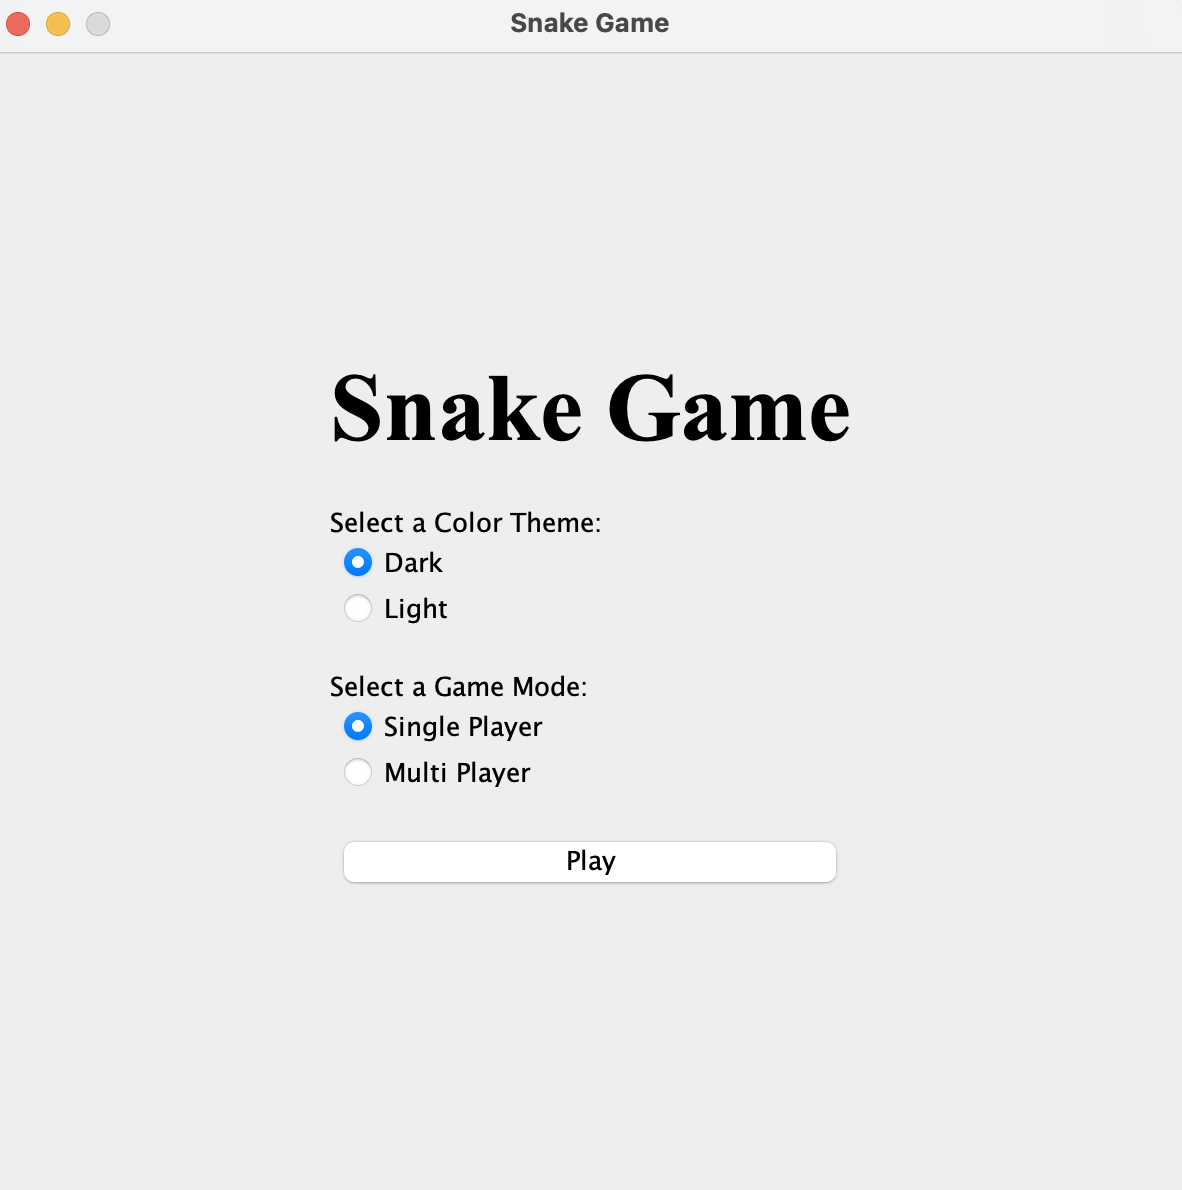
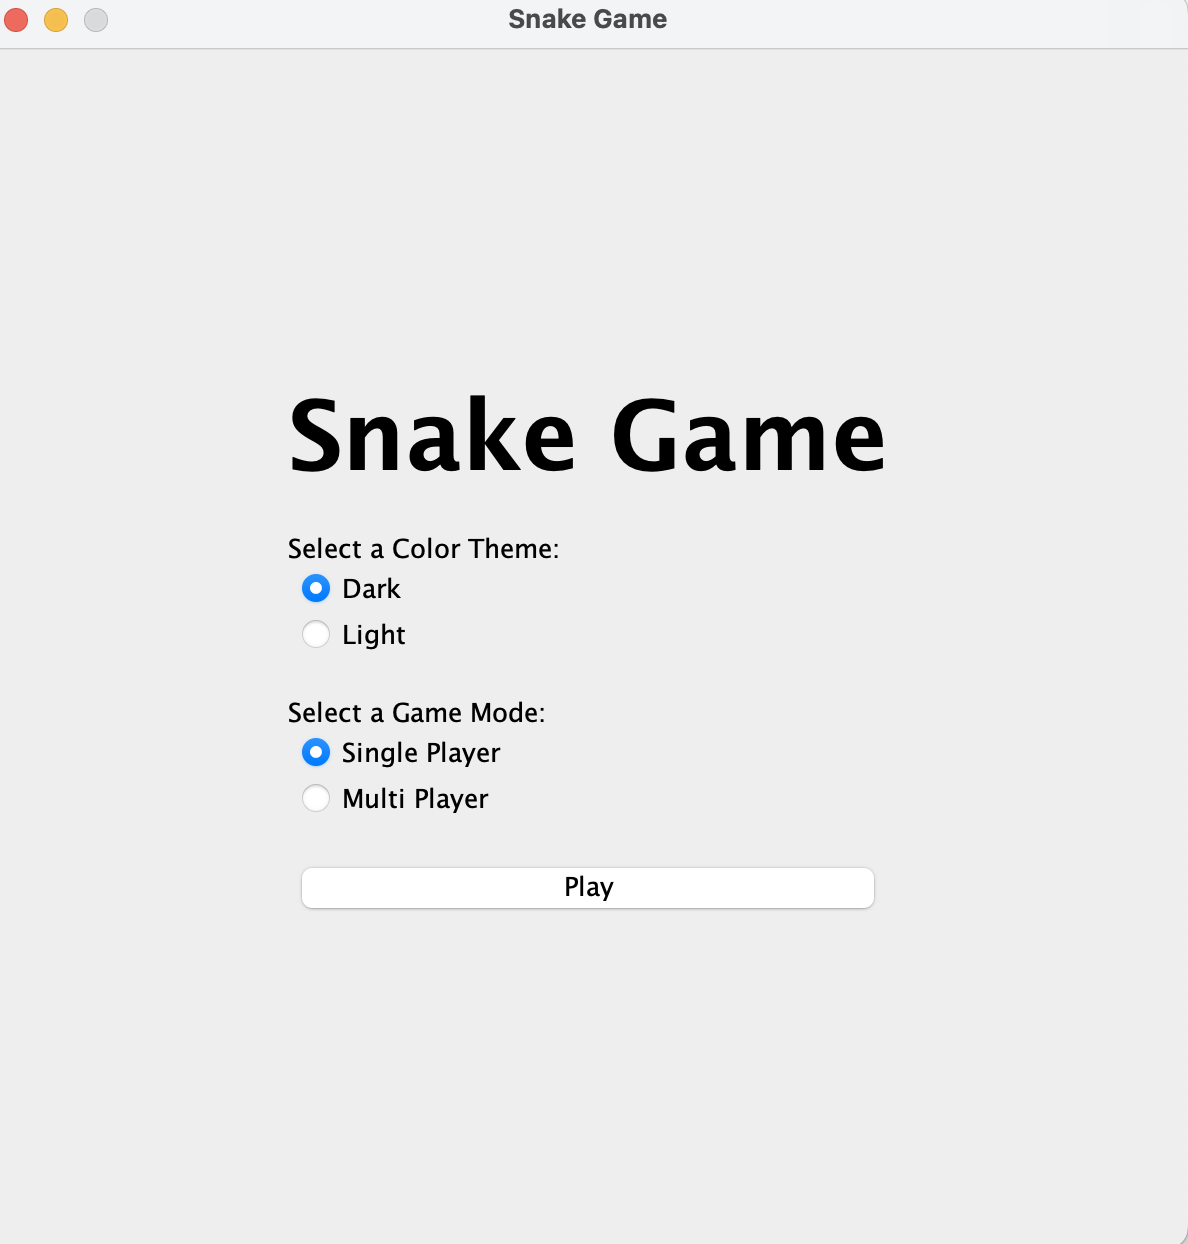
clean up

diff --git a/src/main/java/com/smansu4/panels/GamePanel.java b/src/main/java/com/smansu4/panels/GamePanel.java
@@ -26,6 +26,7 @@ public class GamePanel extends JPanel {
         snakeGame.requestFocus();
 
         snakeGame.addPropertyChangeListener(evt -> {
+            int defaultOldValue = -1;
             if(GameStateAction.GAME_OVER.toString().equals(evt.getPropertyName())){
                 snakeGame.removeAll();
                 snakeGame.setVisible(false);
@@ -33,11 +34,11 @@ public class GamePanel extends JPanel {
                 setVisible(false);
                 firePropertyChange(GameStateAction.GAME_OVER.toString(), false, true);
             } else if ("highScore".equals(evt.getPropertyName())){
-                firePropertyChange("highScore", -1, evt.getNewValue());
+                firePropertyChange("highScore", defaultOldValue, evt.getNewValue());
             } else if ("p1Score".equals(evt.getPropertyName())){
-                firePropertyChange("p1Score", -1, evt.getNewValue());
+                firePropertyChange("p1Score", defaultOldValue, evt.getNewValue());
             } else if ("p2Score".equals(evt.getPropertyName())){
-                firePropertyChange("p2Score", -1, evt.getNewValue());
+                firePropertyChange("p2Score", defaultOldValue, evt.getNewValue());
             }
         });
         snakeGame.startGame();

diff --git a/src/main/java/com/smansu4/snake/SnakeGame.java b/src/main/java/com/smansu4/snake/SnakeGame.java
@@ -215,12 +215,14 @@ public class SnakeGame extends JPanel implements ActionListener, KeyListener {
         repaint();
 
         if(gameOver) {
+            int defaultOldValue = -1;
+
             gameLoop.stop();
             checkForHighScore();
-            this.firePropertyChange("highScore", -1, highScore);
-            this.firePropertyChange("p1Score", -1, snake.body.size());
+            this.firePropertyChange("highScore", defaultOldValue, highScore);
+            this.firePropertyChange("p1Score", defaultOldValue, snake.body.size());
             if(multiplayerEnabled) {
-                this.firePropertyChange("p2Score", -1, snake2.body.size());
+                this.firePropertyChange("p2Score", defaultOldValue, snake2.body.size());
             }
             this.firePropertyChange(GameStateAction.GAME_OVER.toString(), false, true);
         }
